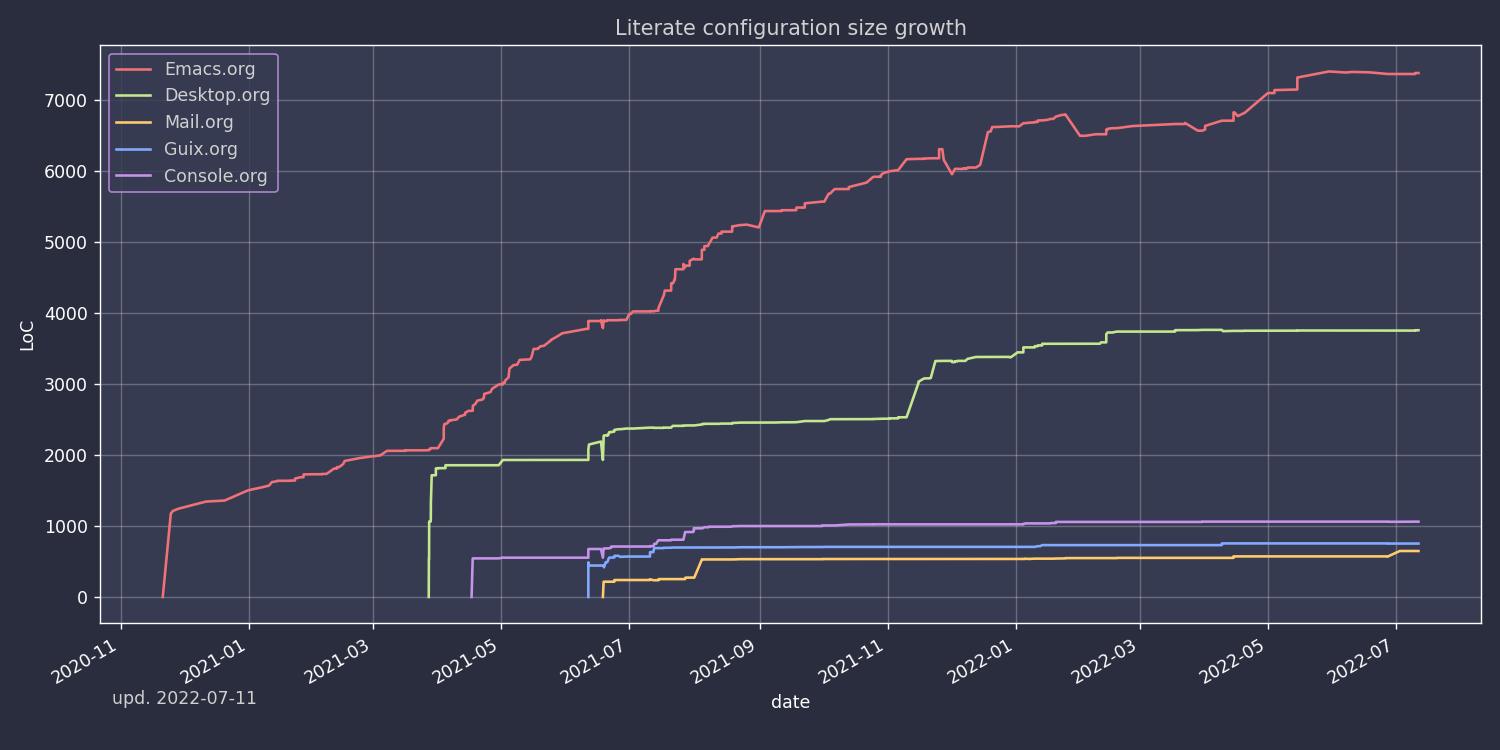
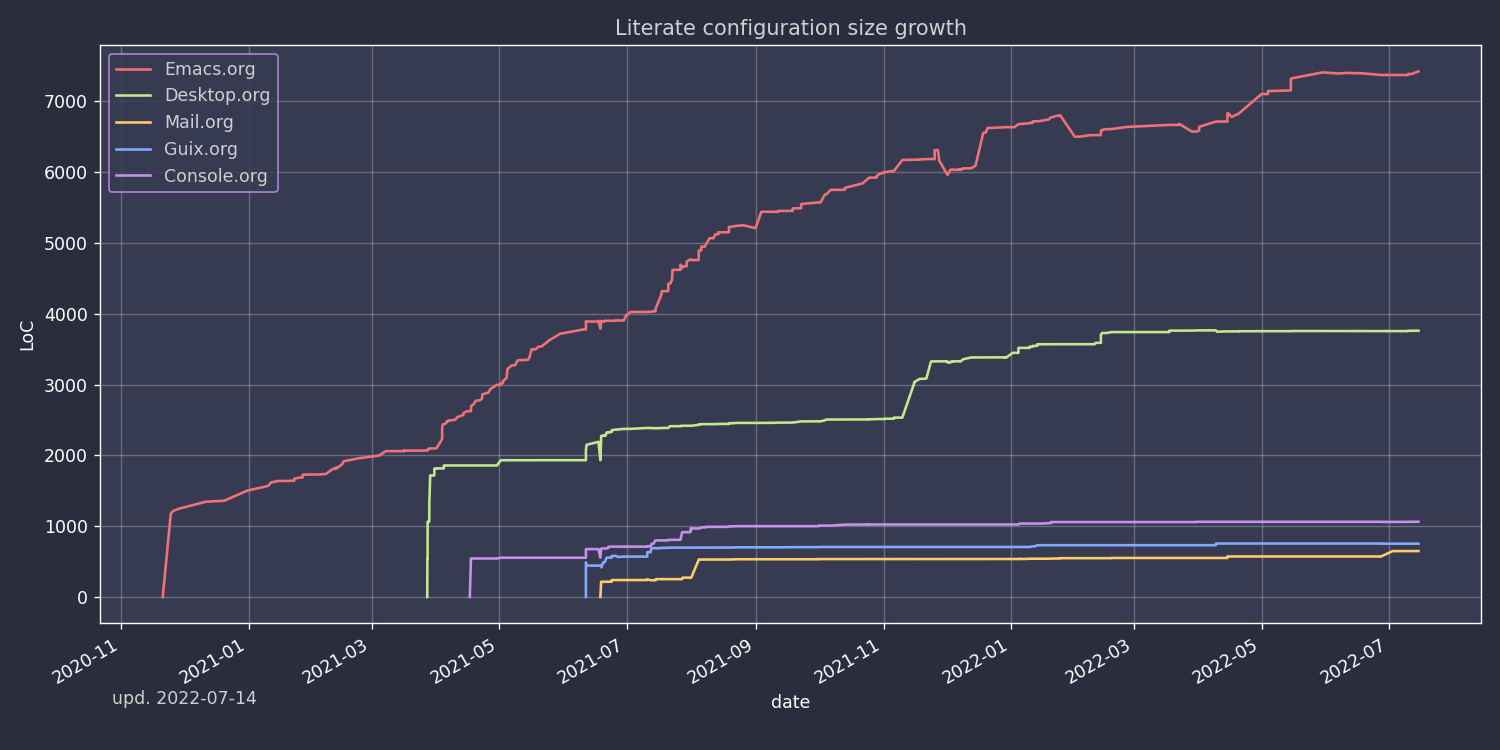
deploy: 8ed5a5305f5ddd59a2fc5a9faa82522354c5df9d

diff --git a/configs/emacs/index.html b/configs/emacs/index.html
@@ -237,6 +237,29 @@ Emacs is also particularly good at writing Lisp code, e.g. Clojure, Common Lisp,
 </span></span><span style="display:flex;"><span>				(<span style="color:#008000">unless</span> (<span style="color:#19177c">frame-focus-state</span>)
 </span></span><span style="display:flex;"><span>				  (<span style="color:#00f">garbage-collect</span>))))
 </span></span><span style="display:flex;"><span>	      (<span style="color:#19177c">add-hook</span> <span style="color:#19177c">&#39;after-focus-change-function</span> <span style="color:#19177c">&#39;garbage-collect</span>))))
+</span></span></code></pre></div><h4 id="measure-ram-usage">Measure RAM usage</h4>
+<p>I&rsquo;ve noticed that Emacs occasionally eats a lot of RAM, especially when used with EXWM. This is my attempt to measure RAM usage.</p>
+<p>I have some concerns that <code>ps -o rss</code> may be unrepresentative because of <a href="https://stackoverflow.com/questions/131303/how-can-i-measure-the-actual-memory-usage-of-an-application-or-process">shared memory</a>, but I guess this shouldn&rsquo;t be a problem here because there&rsquo;s only one process of Emacs.</p>
+<div class="highlight"><pre tabindex="0" style=";-moz-tab-size:4;-o-tab-size:4;tab-size:4;"><code class="language-emacs-lisp" data-lang="emacs-lisp"><span style="display:flex;"><span>(<span style="color:#008000">defun</span> <span style="color:#19177c">my/get-ram-usage-async</span> (<span style="color:#19177c">callback</span>)
+</span></span><span style="display:flex;"><span>  (<span style="color:#008000">let*</span> ((<span style="color:#19177c">temp-buffer</span> (<span style="color:#19177c">generate-new-buffer</span> <span style="color:#ba2121">&#34;*ps*&#34;</span>))
+</span></span><span style="display:flex;"><span>	 (<span style="color:#19177c">proc</span> (<span style="color:#00f">start-process</span> <span style="color:#ba2121">&#34;ps&#34;</span> <span style="color:#19177c">temp-buffer</span> <span style="color:#ba2121">&#34;ps&#34;</span>
+</span></span><span style="display:flex;"><span>			      <span style="color:#ba2121">&#34;-p&#34;</span> (<span style="color:#00f">number-to-string</span> (<span style="color:#00f">emacs-pid</span>)) <span style="color:#ba2121">&#34;-o&#34;</span> <span style="color:#ba2121">&#34;rss&#34;</span>)))
+</span></span><span style="display:flex;"><span>    (<span style="color:#00f">set-process-sentinel</span>
+</span></span><span style="display:flex;"><span>     <span style="color:#19177c">proc</span>
+</span></span><span style="display:flex;"><span>     (<span style="color:#008000">lambda</span> (<span style="color:#19177c">process</span> <span style="color:#19177c">_msg</span>)
+</span></span><span style="display:flex;"><span>       (<span style="color:#008000">when</span> (<span style="color:#00f">eq</span> (<span style="color:#00f">process-status</span> <span style="color:#19177c">process</span>) <span style="color:#19177c">&#39;exit</span>)
+</span></span><span style="display:flex;"><span>	 (<span style="color:#008000">let*</span> ((<span style="color:#19177c">output</span> (<span style="color:#008000">with-current-buffer</span> <span style="color:#19177c">temp-buffer</span>
+</span></span><span style="display:flex;"><span>			  (<span style="color:#00f">buffer-string</span>)))
+</span></span><span style="display:flex;"><span>		(<span style="color:#19177c">usage</span> (<span style="color:#00f">string-to-number</span> (<span style="color:#00f">nth</span> <span style="color:#666">1</span> (<span style="color:#19177c">split-string</span> <span style="color:#19177c">output</span> <span style="color:#ba2121">&#34;\n&#34;</span>)))))
+</span></span><span style="display:flex;"><span>	   (<span style="color:#008000">ignore-errors</span>
+</span></span><span style="display:flex;"><span>	     (<span style="color:#00f">funcall</span> <span style="color:#19177c">callback</span> <span style="color:#19177c">usage</span>)))
+</span></span><span style="display:flex;"><span>	 (<span style="color:#00f">kill-buffer</span> <span style="color:#19177c">temp-buffer</span>))))))
+</span></span><span style="display:flex;"><span>
+</span></span><span style="display:flex;"><span>(<span style="color:#008000">defun</span> <span style="color:#19177c">my/ram-usage</span> ()
+</span></span><span style="display:flex;"><span>  (<span style="color:#008000">interactive</span>)
+</span></span><span style="display:flex;"><span>  (<span style="color:#19177c">my/get-ram-usage-async</span>
+</span></span><span style="display:flex;"><span>   (<span style="color:#008000">lambda</span> (<span style="color:#19177c">data</span>)
+</span></span><span style="display:flex;"><span>     (<span style="color:#00f">message</span> <span style="color:#ba2121">&#34;%f Gb&#34;</span> (<span style="color:#00f">/</span> (<span style="color:#00f">float</span> <span style="color:#19177c">data</span>) <span style="color:#666">1024</span> <span style="color:#666">1024</span>)))))
 </span></span></code></pre></div><h3 id="anaconda">Anaconda</h3>
 <p><a href="https://www.anaconda.com/">Anaconda</a> is a free package and environment manager. I currently use it to manage multiple versions of Python and Node.js. Take a look at <a href="/configs/guix/#conda">the corresponding entry</a> in the Guix config for details about using it on Guix.</p>
 <p>The following code uses the <code>conda</code> package to activate the base environment on startup if Emacs is launched outside the environment.</p>
@@ -1306,6 +1329,43 @@ Emacs is also particularly good at writing Lisp code, e.g. Clojure, Common Lisp,
 </span></span><span style="display:flex;"><span>	  (<span style="color:#19177c">disable-theme</span> <span style="color:#19177c">&#39;doom-palenight</span>))
 </span></span><span style="display:flex;"><span>      (<span style="color:#19177c">load-theme</span> <span style="color:#19177c">&#39;doom-palenight</span> <span style="color:#800">t</span>)
 </span></span><span style="display:flex;"><span>      (<span style="color:#19177c">disable-theme</span> <span style="color:#19177c">&#39;doom-one-light</span>))))
+</span></span></code></pre></div><h4 id="ansi-colors">ANSI colors</h4>
+<p><code>ansi-color.el</code> is a built-in Emacs package that translates ANSI color escape codes into faces.</p>
+<p>It is used by many other packages but doesn&rsquo;t seem to have an integration with <code>doom-themes</code>, so here is one.</p>
+<div class="highlight"><pre tabindex="0" style=";-moz-tab-size:4;-o-tab-size:4;tab-size:4;"><code class="language-emacs-lisp" data-lang="emacs-lisp"><span style="display:flex;"><span>(<span style="color:#008000">with-eval-after-load</span> <span style="color:#19177c">&#39;ansi-color</span>
+</span></span><span style="display:flex;"><span>  (<span style="color:#19177c">my/use-doom-colors</span>
+</span></span><span style="display:flex;"><span>   (<span style="color:#19177c">ansi-color-black</span>
+</span></span><span style="display:flex;"><span>    <span style="color:#008000">:foreground</span> (<span style="color:#19177c">doom-color</span> <span style="color:#19177c">&#39;base2</span>) <span style="color:#008000">:background</span> (<span style="color:#19177c">doom-color</span> <span style="color:#19177c">&#39;base0</span>))
+</span></span><span style="display:flex;"><span>   (<span style="color:#19177c">ansi-color-red</span>
+</span></span><span style="display:flex;"><span>    <span style="color:#008000">:foreground</span> (<span style="color:#19177c">doom-color</span> <span style="color:#19177c">&#39;red</span>) <span style="color:#008000">:background</span> (<span style="color:#19177c">doom-color</span> <span style="color:#19177c">&#39;red</span>))
+</span></span><span style="display:flex;"><span>   (<span style="color:#19177c">ansi-color-green</span>
+</span></span><span style="display:flex;"><span>    <span style="color:#008000">:foreground</span> (<span style="color:#19177c">doom-color</span> <span style="color:#19177c">&#39;green</span>) <span style="color:#008000">:background</span> (<span style="color:#19177c">doom-color</span> <span style="color:#19177c">&#39;green</span>))
+</span></span><span style="display:flex;"><span>   (<span style="color:#19177c">ansi-color-yellow</span>
+</span></span><span style="display:flex;"><span>    <span style="color:#008000">:foreground</span> (<span style="color:#19177c">doom-color</span> <span style="color:#19177c">&#39;yellow</span>) <span style="color:#008000">:background</span> (<span style="color:#19177c">doom-color</span> <span style="color:#19177c">&#39;yellow</span>))
+</span></span><span style="display:flex;"><span>   (<span style="color:#19177c">ansi-color-blue</span>
+</span></span><span style="display:flex;"><span>    <span style="color:#008000">:foreground</span> (<span style="color:#19177c">doom-color</span> <span style="color:#19177c">&#39;dark-blue</span>) <span style="color:#008000">:background</span> (<span style="color:#19177c">doom-color</span> <span style="color:#19177c">&#39;dark-blue</span>))
+</span></span><span style="display:flex;"><span>   (<span style="color:#19177c">ansi-color-magenta</span>
+</span></span><span style="display:flex;"><span>    <span style="color:#008000">:foreground</span> (<span style="color:#19177c">doom-color</span> <span style="color:#19177c">&#39;violet</span>) <span style="color:#008000">:background</span> (<span style="color:#19177c">doom-color</span> <span style="color:#19177c">&#39;violet</span>))
+</span></span><span style="display:flex;"><span>   (<span style="color:#19177c">ansi-color-cyan</span>
+</span></span><span style="display:flex;"><span>    <span style="color:#008000">:foreground</span> (<span style="color:#19177c">doom-color</span> <span style="color:#19177c">&#39;dark-cyan</span>) <span style="color:#008000">:background</span> (<span style="color:#19177c">doom-color</span> <span style="color:#19177c">&#39;dark-cyan</span>))
+</span></span><span style="display:flex;"><span>   (<span style="color:#19177c">ansi-color-white</span>
+</span></span><span style="display:flex;"><span>    <span style="color:#008000">:foreground</span> (<span style="color:#19177c">doom-color</span> <span style="color:#19177c">&#39;base8</span>) <span style="color:#008000">:background</span> (<span style="color:#19177c">doom-color</span> <span style="color:#19177c">&#39;base8</span>))
+</span></span><span style="display:flex;"><span>   (<span style="color:#19177c">ansi-color-bright-black</span>
+</span></span><span style="display:flex;"><span>    <span style="color:#008000">:foreground</span> (<span style="color:#19177c">doom-color</span> <span style="color:#19177c">&#39;base5</span>) <span style="color:#008000">:background</span> (<span style="color:#19177c">doom-color</span> <span style="color:#19177c">&#39;base5</span>))
+</span></span><span style="display:flex;"><span>   (<span style="color:#19177c">ansi-color-bright-red</span>
+</span></span><span style="display:flex;"><span>    <span style="color:#008000">:foreground</span> (<span style="color:#19177c">doom-color</span> <span style="color:#19177c">&#39;orange</span>) <span style="color:#008000">:background</span> (<span style="color:#19177c">doom-color</span> <span style="color:#19177c">&#39;orange</span>))
+</span></span><span style="display:flex;"><span>   (<span style="color:#19177c">ansi-color-bright-green</span>
+</span></span><span style="display:flex;"><span>    <span style="color:#008000">:foreground</span> (<span style="color:#19177c">doom-color</span> <span style="color:#19177c">&#39;teal</span>) <span style="color:#008000">:background</span> (<span style="color:#19177c">doom-color</span> <span style="color:#19177c">&#39;teal</span>))
+</span></span><span style="display:flex;"><span>   (<span style="color:#19177c">ansi-color-bright-yellow</span>
+</span></span><span style="display:flex;"><span>    <span style="color:#008000">:foreground</span> (<span style="color:#19177c">doom-color</span> <span style="color:#19177c">&#39;yellow</span>) <span style="color:#008000">:background</span> (<span style="color:#19177c">doom-color</span> <span style="color:#19177c">&#39;yellow</span>))
+</span></span><span style="display:flex;"><span>   (<span style="color:#19177c">ansi-color-bright-blue</span>
+</span></span><span style="display:flex;"><span>    <span style="color:#008000">:foreground</span> (<span style="color:#19177c">doom-color</span> <span style="color:#19177c">&#39;blue</span>) <span style="color:#008000">:background</span> (<span style="color:#19177c">doom-color</span> <span style="color:#19177c">&#39;blue</span>))
+</span></span><span style="display:flex;"><span>   (<span style="color:#19177c">ansi-color-bright-magenta</span>
+</span></span><span style="display:flex;"><span>    <span style="color:#008000">:foreground</span> (<span style="color:#19177c">doom-color</span> <span style="color:#19177c">&#39;magenta</span>) <span style="color:#008000">:background</span> (<span style="color:#19177c">doom-color</span> <span style="color:#19177c">&#39;magenta</span>))
+</span></span><span style="display:flex;"><span>   (<span style="color:#19177c">ansi-color-bright-cyan</span>
+</span></span><span style="display:flex;"><span>    <span style="color:#008000">:foreground</span> (<span style="color:#19177c">doom-color</span> <span style="color:#19177c">&#39;cyan</span>) <span style="color:#008000">:background</span> (<span style="color:#19177c">doom-color</span> <span style="color:#19177c">&#39;cyan</span>))
+</span></span><span style="display:flex;"><span>   (<span style="color:#19177c">ansi-color-bright-white</span>
+</span></span><span style="display:flex;"><span>    <span style="color:#008000">:foreground</span> (<span style="color:#19177c">doom-color</span> <span style="color:#19177c">&#39;fg</span>) <span style="color:#008000">:background</span> (<span style="color:#19177c">doom-color</span> <span style="color:#19177c">&#39;fg</span>))))
 </span></span></code></pre></div><h3 id="fonts">Fonts</h3>
 <h4 id="frame-font">Frame font</h4>
 <p>To install a font, download the font and unpack it into the <code>.local/share/fonts</code> directory. Create one if it doesn&rsquo;t exist.</p>
@@ -2775,6 +2835,12 @@ Emacs is also particularly good at writing Lisp code, e.g. Clojure, Common Lisp,
 </span></span><span style="display:flex;"><span>  <span style="color:#008000">:straight</span> <span style="color:#800">t</span>
 </span></span><span style="display:flex;"><span>  <span style="color:#008000">:config</span>
 </span></span><span style="display:flex;"><span>  (<span style="color:#19177c">add-hook</span> <span style="color:#19177c">&#39;dockerfile-mode</span> <span style="color:#19177c">&#39;smartparens-mode</span>))
+</span></span></code></pre></div><h4 id="jenkins">Jenkins</h4>
+<div class="highlight"><pre tabindex="0" style=";-moz-tab-size:4;-o-tab-size:4;tab-size:4;"><code class="language-emacs-lisp" data-lang="emacs-lisp"><span style="display:flex;"><span>(<span style="color:#008000">use-package</span> <span style="color:#19177c">jenkinsfile-mode</span>
+</span></span><span style="display:flex;"><span>  <span style="color:#008000">:straight</span> <span style="color:#800">t</span>
+</span></span><span style="display:flex;"><span>  <span style="color:#008000">:config</span>
+</span></span><span style="display:flex;"><span>  (<span style="color:#19177c">add-hook</span> <span style="color:#19177c">&#39;jenkinsfile-mode-hook</span> <span style="color:#00f">#&#39;</span><span style="color:#19177c">smartparens-mode</span>)
+</span></span><span style="display:flex;"><span>  (<span style="color:#19177c">my/set-smartparens-indent</span> <span style="color:#19177c">&#39;jenkinsfile-mode</span>))
 </span></span></code></pre></div><h4 id="crontab">crontab</h4>
 <div class="highlight"><pre tabindex="0" style=";-moz-tab-size:4;-o-tab-size:4;tab-size:4;"><code class="language-emacs-lisp" data-lang="emacs-lisp"><span style="display:flex;"><span>(<span style="color:#008000">use-package</span> <span style="color:#19177c">crontab-mode</span>
 </span></span><span style="display:flex;"><span>  <span style="color:#008000">:straight</span> <span style="color:#800">t</span>)
@@ -5944,53 +6010,23 @@ Emacs is also particularly good at writing Lisp code, e.g. Clojure, Common Lisp,
 </span></span><span style="display:flex;"><span>    (<span style="color:#19177c">my/password-store-get</span> <span style="color:#19177c">entry</span>)))
 </span></span></code></pre></div><h4 id="docker-1">Docker</h4>
 <p>A package to manage docker containers from Emacs.</p>
-<p>The file <code>progidy-config.el</code> sets variable <code>my/docker-directories</code>, which allows to</p>
 <div class="highlight"><pre tabindex="0" style=";-moz-tab-size:4;-o-tab-size:4;tab-size:4;"><code class="language-emacs-lisp" data-lang="emacs-lisp"><span style="display:flex;"><span>(<span style="color:#008000">use-package</span> <span style="color:#19177c">docker</span>
 </span></span><span style="display:flex;"><span>  <span style="color:#008000">:straight</span> <span style="color:#800">t</span>
 </span></span><span style="display:flex;"><span>  <span style="color:#008000">:commands</span> (<span style="color:#19177c">docker</span>)
 </span></span><span style="display:flex;"><span>  <span style="color:#008000">:init</span>
 </span></span><span style="display:flex;"><span>  (<span style="color:#19177c">my-leader-def</span> <span style="color:#ba2121">&#34;ao&#34;</span> <span style="color:#19177c">&#39;docker</span>))
-</span></span></code></pre></div><p>By default, docker commands are run in <code>default-directory</code>. Even worse, transient doesn&rsquo;t allow to set <code>default-directory</code> temporarily, via <code>let</code>. But often I don&rsquo;t want to change <code>default-directory</code> of a buffer (e.g. via Dired) to run a command from there.</p>
-<p>So I decided to implement the following advice:</p>
-<div class="highlight"><pre tabindex="0" style=";-moz-tab-size:4;-o-tab-size:4;tab-size:4;"><code class="language-emacs-lisp" data-lang="emacs-lisp"><span style="display:flex;"><span>(<span style="color:#008000">setq</span> <span style="color:#19177c">my/selected-docker-directory</span> <span style="color:#800">nil</span>)
-</span></span><span style="display:flex;"><span>
-</span></span><span style="display:flex;"><span>(<span style="color:#008000">defun</span> <span style="color:#19177c">my/docker-override-dir</span> (<span style="color:#19177c">fun</span> <span style="color:#008000">&amp;rest</span> <span style="color:#19177c">args</span>)
-</span></span><span style="display:flex;"><span>  (<span style="color:#008000">let</span> ((<span style="color:#19177c">default-directory</span> (<span style="color:#008000">or</span> <span style="color:#19177c">my/selected-docker-directory</span> <span style="color:#19177c">default-directory</span>)))
-</span></span><span style="display:flex;"><span>    (<span style="color:#008000">setq</span> <span style="color:#19177c">my/selected-docker-directory</span> <span style="color:#800">nil</span>)
-</span></span><span style="display:flex;"><span>    (<span style="color:#00f">apply</span> <span style="color:#19177c">fun</span> <span style="color:#19177c">args</span>)))
-</span></span></code></pre></div><p>It overrides <code>default-directory</code> for the first launch of a function. Now, add the advice to the required functions from <code>docker.el</code>:</p>
-<div class="highlight"><pre tabindex="0" style=";-moz-tab-size:4;-o-tab-size:4;tab-size:4;"><code class="language-emacs-lisp" data-lang="emacs-lisp"><span style="display:flex;"><span>(<span style="color:#008000">with-eval-after-load</span> <span style="color:#19177c">&#39;docker</span>
-</span></span><span style="display:flex;"><span>  (<span style="color:#19177c">advice-add</span> <span style="color:#00f">#&#39;</span><span style="color:#19177c">docker-compose-run-docker-compose-async</span> <span style="color:#008000">:around</span> <span style="color:#00f">#&#39;</span><span style="color:#19177c">my/docker-override-dir</span>)
-</span></span><span style="display:flex;"><span>  (<span style="color:#19177c">advice-add</span> <span style="color:#00f">#&#39;</span><span style="color:#19177c">docker-compose-run-docker-compose</span> <span style="color:#008000">:around</span> <span style="color:#00f">#&#39;</span><span style="color:#19177c">my/docker-override-dir</span>)
-</span></span><span style="display:flex;"><span>  (<span style="color:#19177c">advice-add</span> <span style="color:#00f">#&#39;</span><span style="color:#19177c">docker-run-docker-async</span> <span style="color:#008000">:around</span> <span style="color:#00f">#&#39;</span><span style="color:#19177c">my/docker-override-dir</span>)
-</span></span><span style="display:flex;"><span>  (<span style="color:#19177c">advice-add</span> <span style="color:#00f">#&#39;</span><span style="color:#19177c">docker-run-docker</span> <span style="color:#008000">:around</span> <span style="color:#00f">#&#39;</span><span style="color:#19177c">my/docker-override-dir</span>))
-</span></span></code></pre></div><p>And here is a function which prompts the user for the directory. File <code>progidy-config.el</code> sets an alist of possible directories, look the section about <a href="#progidy">progidy</a>.</p>
-<div class="highlight"><pre tabindex="0" style=";-moz-tab-size:4;-o-tab-size:4;tab-size:4;"><code class="language-emacs-lisp" data-lang="emacs-lisp"><span style="display:flex;"><span>(<span style="color:#008000">defun</span> <span style="color:#19177c">my/docker-from-dir</span> ()
-</span></span><span style="display:flex;"><span>  (<span style="color:#008000">interactive</span>)
-</span></span><span style="display:flex;"><span>  (<span style="color:#008000">when</span> (<span style="color:#19177c">not</span> (<span style="color:#00f">boundp</span> <span style="color:#19177c">&#39;my/docker-directories</span>))
-</span></span><span style="display:flex;"><span>    (<span style="color:#00f">load</span> (<span style="color:#00f">concat</span> <span style="color:#19177c">user-emacs-directory</span> <span style="color:#ba2121">&#34;prodigy-config&#34;</span>)))
-</span></span><span style="display:flex;"><span>  (<span style="color:#008000">let*</span> ((<span style="color:#19177c">directories</span>
-</span></span><span style="display:flex;"><span>	  (<span style="color:#00f">mapcar</span>
-</span></span><span style="display:flex;"><span>	   (<span style="color:#008000">lambda</span> (<span style="color:#19177c">el</span>) (<span style="color:#00f">cons</span> (<span style="color:#00f">format</span> <span style="color:#ba2121">&#34;%-30s %s&#34;</span> (<span style="color:#00f">car</span> <span style="color:#19177c">el</span>) (<span style="color:#00f">cdr</span> <span style="color:#19177c">el</span>)) (<span style="color:#00f">cdr</span> <span style="color:#19177c">el</span>)))
-</span></span><span style="display:flex;"><span>	   <span style="color:#19177c">my/docker-directories</span>))
-</span></span><span style="display:flex;"><span>	 (<span style="color:#19177c">selected-directory</span>
-</span></span><span style="display:flex;"><span>	  (<span style="color:#00f">cdr</span> (<span style="color:#00f">assoc</span> (<span style="color:#00f">completing-read</span> <span style="color:#ba2121">&#34;Docker: &#34;</span> <span style="color:#19177c">directories</span> <span style="color:#800">nil</span> <span style="color:#800">nil</span> <span style="color:#ba2121">&#34;^&#34;</span>)
-</span></span><span style="display:flex;"><span>		      <span style="color:#19177c">directories</span>))))
-</span></span><span style="display:flex;"><span>    (<span style="color:#008000">setq</span> <span style="color:#19177c">my/selected-docker-directory</span> <span style="color:#19177c">selected-directory</span>)
-</span></span><span style="display:flex;"><span>    (<span style="color:#19177c">docker</span>)))
-</span></span><span style="display:flex;"><span>
-</span></span><span style="display:flex;"><span>(<span style="color:#19177c">my-leader-def</span> <span style="color:#ba2121">&#34;aO&#34;</span> <span style="color:#19177c">&#39;my/docker-from-dir</span>)
-</span></span></code></pre></div><h4 id="progidy-1">Progidy</h4>
-<p><a href="https://github.com/rejeep/prodigy.el">prodigy.el</a> is a package to run various services. I&rsquo;ve previously used tmuxp + tmux, but want to try this as well.</p>
-<p>The actual service definitions are in the <code>~/.emacs.d/prodigy.org</code>, which tangles to <code>prodigy-config.el</code>. Both files are encrypted in yadm, as they contain personal data.</p>
+</span></span></code></pre></div><h4 id="progidy">Progidy</h4>
+<p><a href="https://github.com/rejeep/prodigy.el">prodigy.el</a> is a package to manage services. I&rsquo;ve been using <a href="https://github.com/tmux/tmux">tmux</a> + <a href="https://github.com/tmux-python/tmuxp">tmuxp</a> for quite a long time, but want to try this package as well.</p>
+<p>The actual service definitions are in my <code>~/.emacs.d/private.org</code>, which is encrypted by <code>yadm</code>.</p>
 <div class="highlight"><pre tabindex="0" style=";-moz-tab-size:4;-o-tab-size:4;tab-size:4;"><code class="language-emacs-lisp" data-lang="emacs-lisp"><span style="display:flex;"><span>(<span style="color:#008000">use-package</span> <span style="color:#19177c">prodigy</span>
 </span></span><span style="display:flex;"><span>  <span style="color:#008000">:straight</span> <span style="color:#800">t</span>
 </span></span><span style="display:flex;"><span>  <span style="color:#008000">:commands</span> (<span style="color:#19177c">prodigy</span>)
 </span></span><span style="display:flex;"><span>  <span style="color:#008000">:init</span>
-</span></span><span style="display:flex;"><span>  (<span style="color:#19177c">my-leader-def</span> <span style="color:#ba2121">&#34;aP&#34;</span> <span style="color:#19177c">&#39;prodigy</span>)
+</span></span><span style="display:flex;"><span>  (<span style="color:#19177c">my-leader-def</span> <span style="color:#ba2121">&#34;aP&#34;</span> (<span style="color:#19177c">my/command-in-persp</span>
+</span></span><span style="display:flex;"><span>		       <span style="color:#ba2121">&#34;deploy&#34;</span> <span style="color:#ba2121">&#34;prodigy&#34;</span> <span style="color:#800">nil</span>
+</span></span><span style="display:flex;"><span>		       (<span style="color:#19177c">prodigy</span>)
+</span></span><span style="display:flex;"><span>		       (<span style="color:#19177c">delete-other-windows</span>)))
 </span></span><span style="display:flex;"><span>  <span style="color:#008000">:config</span>
-</span></span><span style="display:flex;"><span>  (<span style="color:#008000">when</span> (<span style="color:#19177c">not</span> (<span style="color:#00f">boundp</span> <span style="color:#19177c">&#39;my/docker-directories</span>))
-</span></span><span style="display:flex;"><span>    (<span style="color:#00f">load</span> (<span style="color:#00f">concat</span> <span style="color:#19177c">user-emacs-directory</span> <span style="color:#ba2121">&#34;prodigy-config&#34;</span>)))
 </span></span><span style="display:flex;"><span>  (<span style="color:#19177c">general-define-key</span>
 </span></span><span style="display:flex;"><span>   <span style="color:#008000">:states</span> <span style="color:#666">&#39;</span>(<span style="color:#19177c">normal</span>)
 </span></span><span style="display:flex;"><span>   <span style="color:#008000">:keymaps</span> <span style="color:#19177c">&#39;prodigy-view-mode-map</span>
@@ -6234,6 +6270,7 @@ Emacs is also particularly good at writing Lisp code, e.g. Clojure, Common Lisp,
             <li><a href="#measure-startup-speed">Measure startup speed</a></li>
             <li><a href="#garbage-collection">Garbage collection</a></li>
             <li><a href="#run-garbage-collection-when-emacs-is-unfocused">Run garbage collection when Emacs is unfocused</a></li>
+            <li><a href="#measure-ram-usage">Measure RAM usage</a></li>
           </ul>
         </li>
         <li><a href="#anaconda">Anaconda</a></li>
@@ -6313,6 +6350,7 @@ Emacs is also particularly good at writing Lisp code, e.g. Clojure, Common Lisp,
             <li><a href="#custom-theme">Custom theme</a></li>
             <li><a href="#dim-inactive-buffers">Dim inactive buffers</a></li>
             <li><a href="#toggle-light-dark">Toggle light/dark</a></li>
+            <li><a href="#ansi-colors">ANSI colors</a></li>
           </ul>
         </li>
         <li><a href="#fonts">Fonts</a>
@@ -6408,6 +6446,7 @@ Emacs is also particularly good at writing Lisp code, e.g. Clojure, Common Lisp,
             <li><a href="#dot-env">.env</a></li>
             <li><a href="#dot-gitignore">.gitignore</a></li>
             <li><a href="#docker">Docker</a></li>
+            <li><a href="#jenkins">Jenkins</a></li>
             <li><a href="#crontab">crontab</a></li>
           </ul>
         </li>
@@ -6575,7 +6614,7 @@ Emacs is also particularly good at writing Lisp code, e.g. Clojure, Common Lisp,
           <ul>
             <li><a href="#pass">pass</a></li>
             <li><a href="#docker-1">Docker</a></li>
-            <li><a href="#progidy-1">Progidy</a></li>
+            <li><a href="#progidy">Progidy</a></li>
             <li><a href="#screenshot-dot-el">screenshot.el</a></li>
             <li><a href="#proced">proced</a></li>
             <li><a href="#guix">Guix</a></li>
